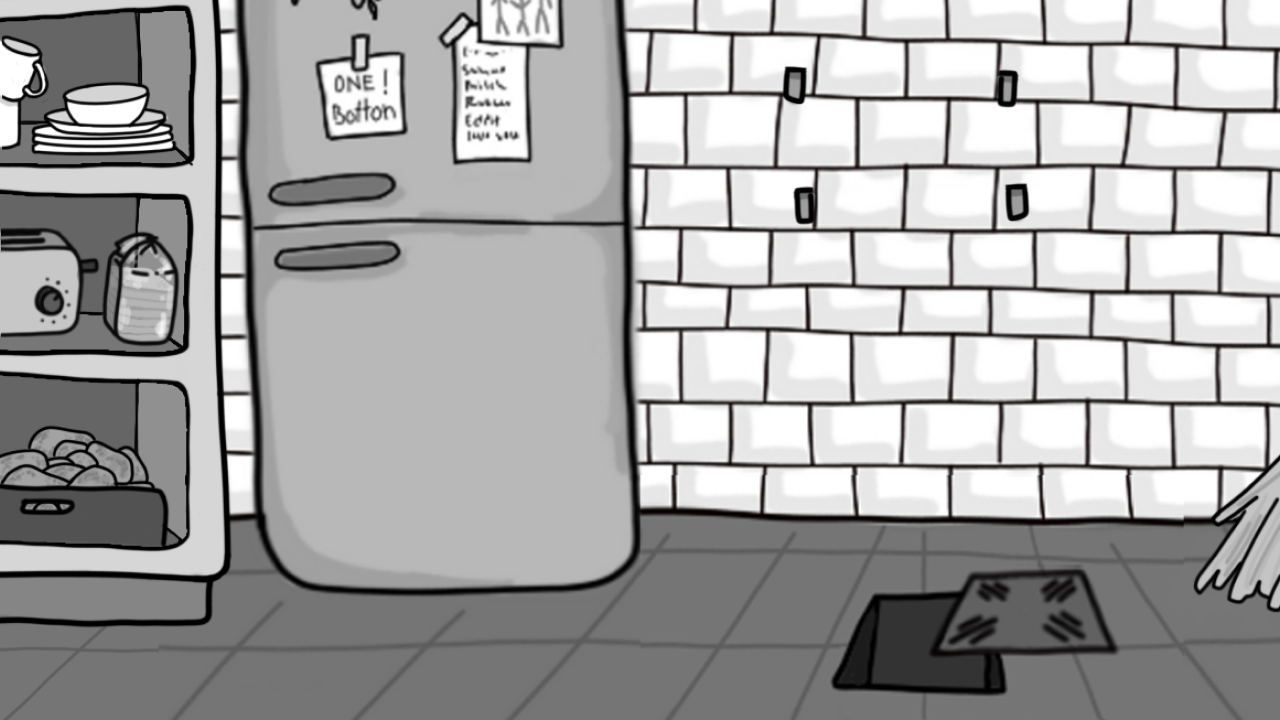
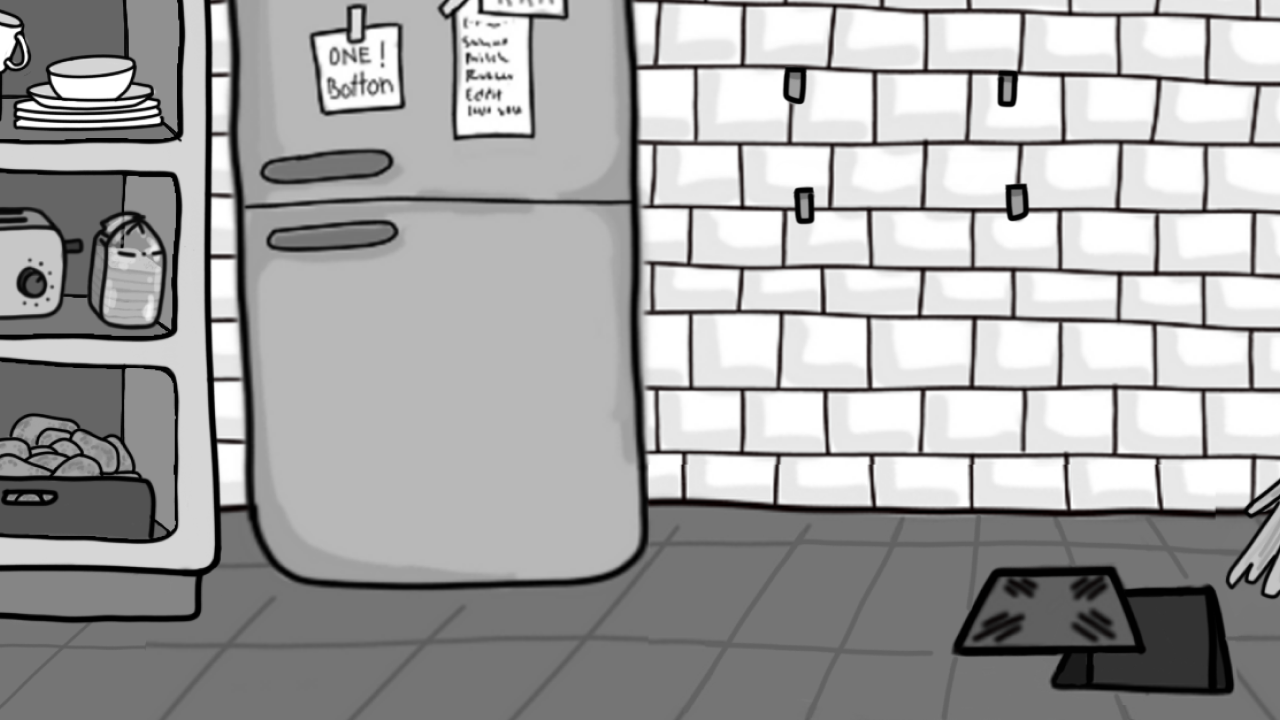
Szene 7 Korrektur

diff --git a/Murmelbahn/code/frame6.js b/Murmelbahn/code/frame6.js
@@ -2,8 +2,8 @@ function scene6() {
 	sceneBack.style["background"] = 'url("./frame6/background.png") no-repeat';
 	sceneFore.style["background"] = "";
 	//ei Bewegung
-	eiX = 0.04;
-	eiY = -0.02;
+	eiX = 0.018;
+	eiY = -0.062;
 	//ei
 	ei = new PolygonFromSVG(
 		world,
@@ -147,7 +147,7 @@ function scene6() {
 			{
 				x: 500,
 				y: 700,
-				w: 1280,
+				w: 1480,
 				h: 40,
 			},
 			{ isStatic: true, restitution: 0.5, friction: 0.001 }
@@ -158,9 +158,9 @@ function scene6() {
 		new BlockCore(
 			world,
 			{
-				x: 920,
+				x: 1150,
 				y: 650,
-				w: 120,
+				w: 140,
 				h: 100,
 				trigger: () => {
 					switchScene((scene + 1) % scenes.length);
